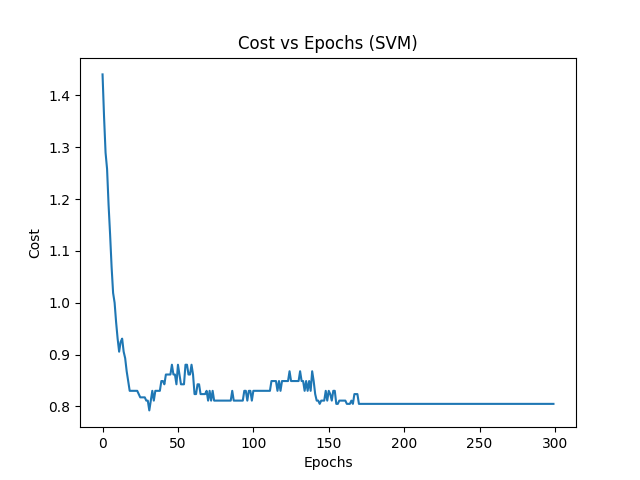
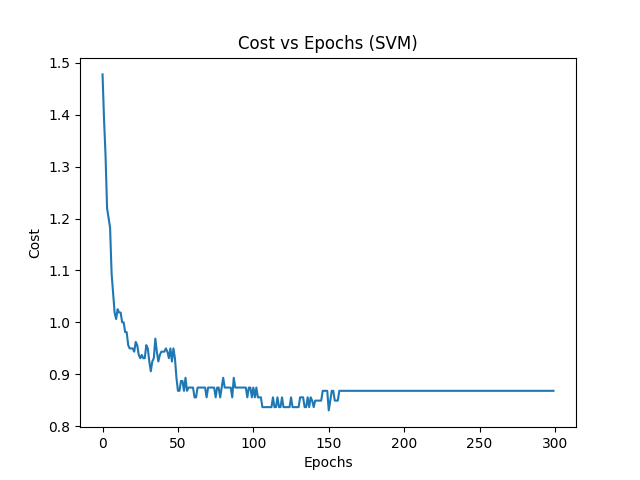
Fixed title formmating in display function

diff --git a/Act:Training/basic_perceptron.py b/Act:Training/basic_perceptron.py
@@ -47,7 +47,7 @@ class Perceptron:
             plt.title("Cost vs Epochs (SVM)")
             plt.savefig(f"./out/cost_{type}_svm.png")
         else: 
-            plt.title("Accuracy vs Epochs")
+            plt.title("Cost vs Epochs")
             plt.savefig(f"./out/cost_{type}.png")
         plt.show()
 
@@ -137,4 +137,4 @@ if __name__ == "__main__":
     y = data[:,0]
     X_train, X_test, y_train, y_test = train_test_split(x, y, test_size=0.3, random_state=42)
     model = Perceptron(300,False)
-    model.train('batch',X_train,y_train,X_test,y_test,0.001)
+    model.train('stochastic',X_train,y_train,X_test,y_test,0.001)
